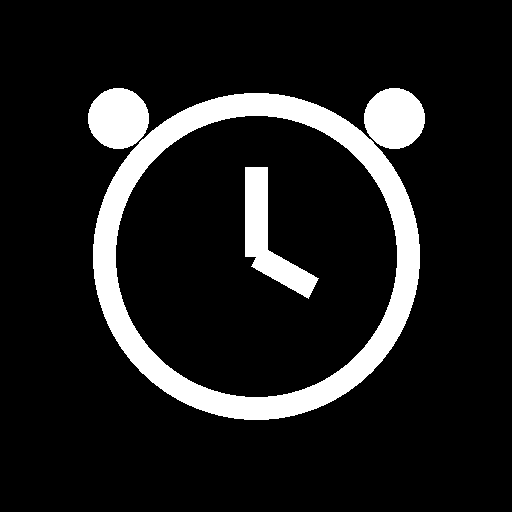
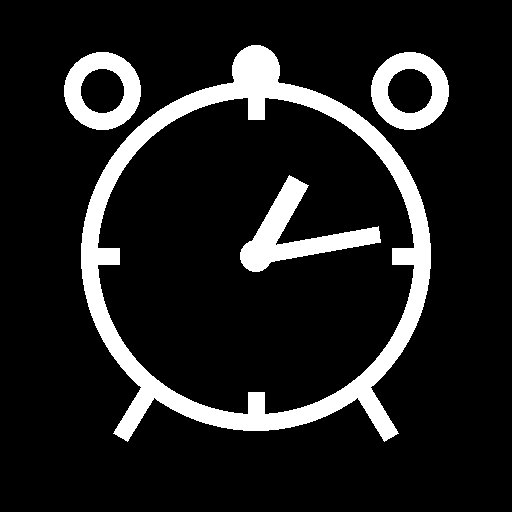
Add files via upload

Changed region(s): [[0.125, 0.0938, 0.875, 0.875]]

diff --git a/index.html b/index.html
@@ -8,7 +8,7 @@
 <meta name="apple-mobile-web-app-status-bar-style" content="black">
 <meta name="apple-mobile-web-app-title" content="Alarm">
 <link rel="manifest" href="manifest.json">
-<link rel="apple-touch-icon" href="icons/icon-192.png">
+<link rel="apple-touch-icon" href="icon-192.png">
 <title>Alarm</title>
 <style>
   :root{
